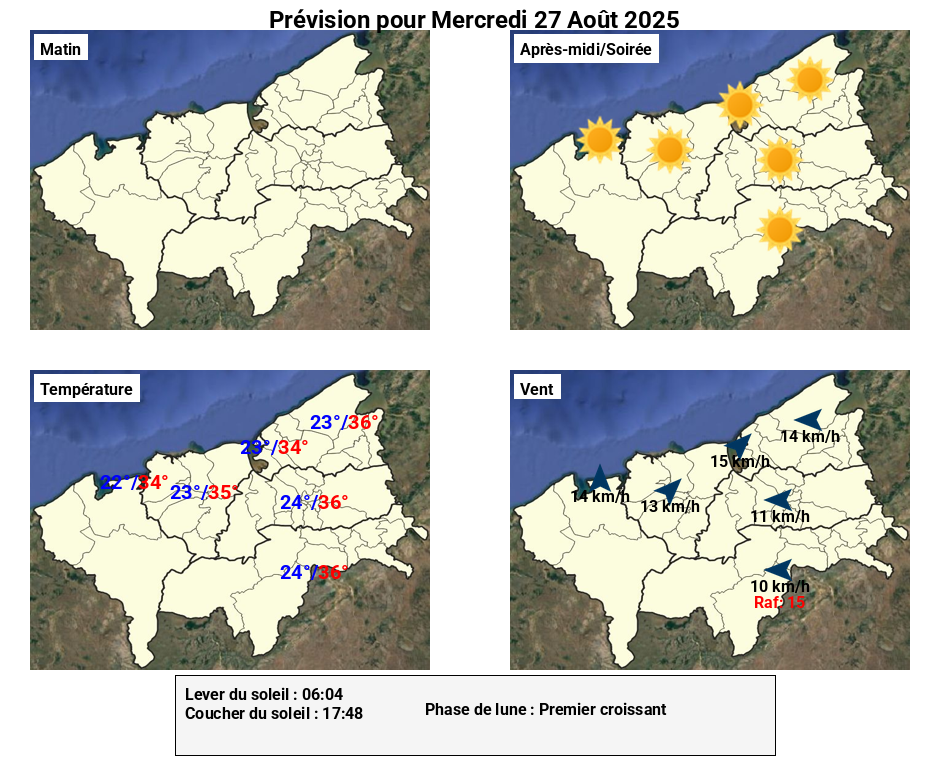
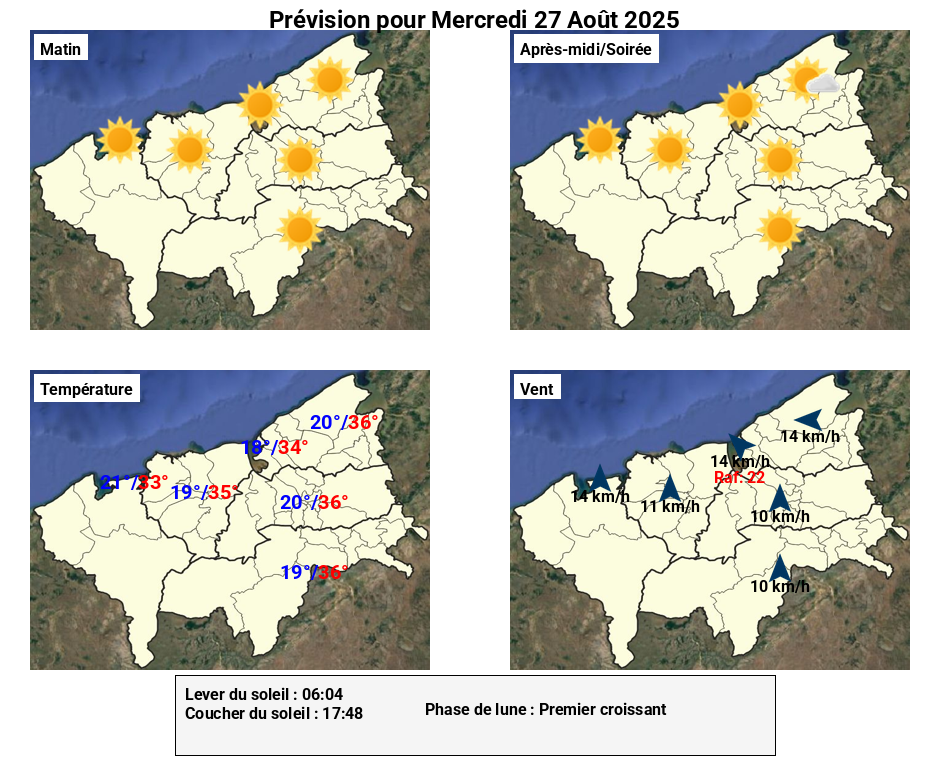
Update frcst on 27 aug 2025

diff --git a/assets/js/script.js b/assets/js/script.js
@@ -152,9 +152,9 @@ NEANT.
 
     const templates = [
     `Temps ensoleillé sur l'ensemble de la région Boeny, particulièrement à Soalala et Mitsinjo à l'ouest, ainsi qu'à Marovoay et AmbatoBoeny dans les parties intérieures.
-**Vents** : Vents faibles à modérés (10 à 15), de secteur Est à Nord-Est sur l'Est et les parties intérieures de la région, et de Sud à Sud-Ouest sur l'Ouest et Mahajanga I.
-**Températures minimales** : entre 22 et 24 °C
-**Températures maximales** : entre 34 et 36 °C`,
+**Vents** : Vents faibles à modérés (10 à 14km), des rafales pouvant atteindre les 22km à Mahajanga, de secteur Est à Nord-Est sur l'Est et les parties intérieures de la région, et de Sud à Sud-Ouest sur l'Ouest et Mahajanga I.
+**Températures minimales** : entre 18 et 21 °C
+**Températures maximales** : entre 33 et 36 °C`,
     `Temps ensoleillé sur l'ensemble de la région Boeny tout au long de la journée.
 **Vents** : Vents faibles à modérés de secteur Est à Sud-Est (10 à 17 km/h, rafales jusqu'à 22 km/h).
 **Températures minimales** : entre 16 et 20 °C
